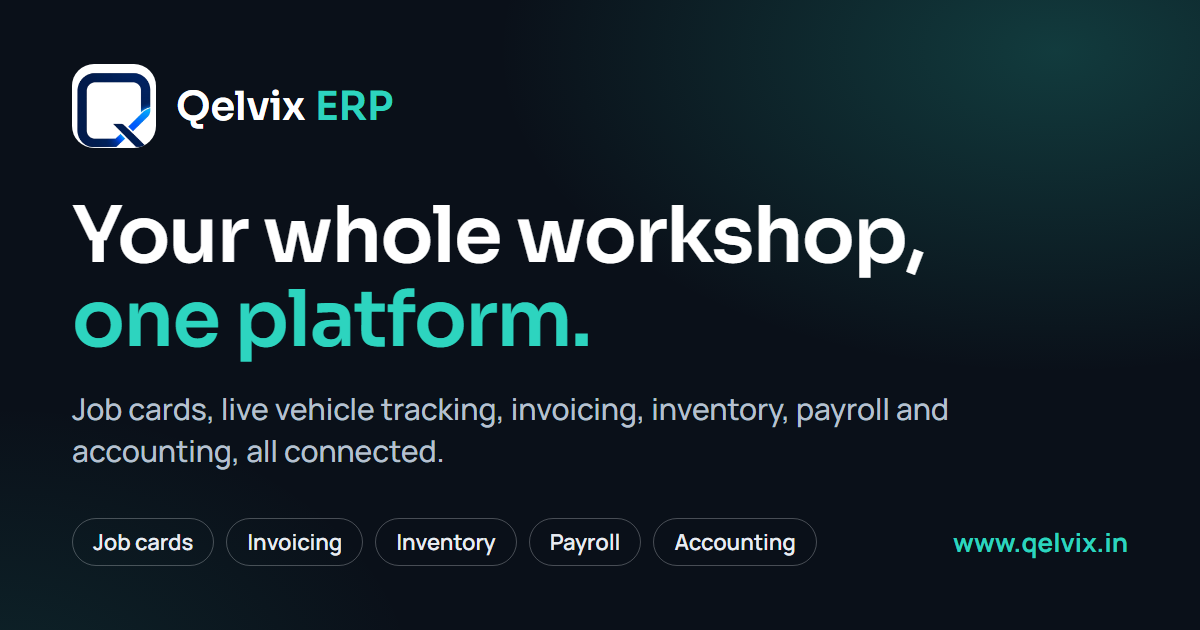
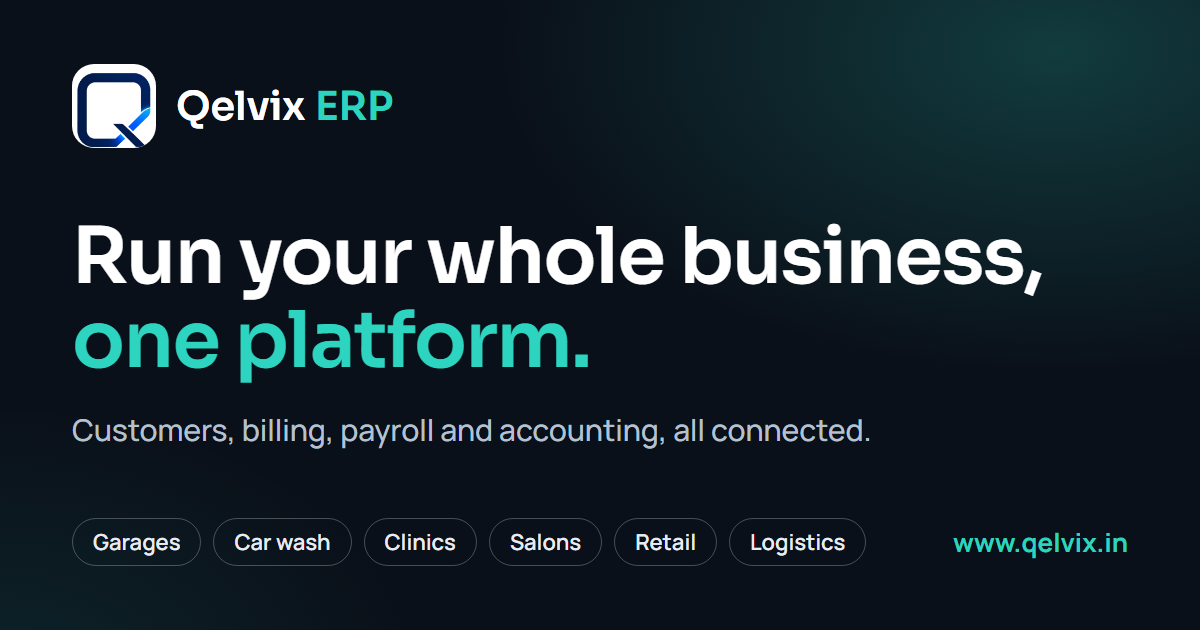
Share image: say "Run your whole business" instead of "Your whole workshop"
The link-preview picture (og-image.png, used by WhatsApp, LinkedIn, X, Slack and Google Discover) still said "Your whole
workshop, one platform" with job-card chips, which no longer matches the site. It now says "Run your whole business, one
platform." with chips for Garages, Car wash, Clinics, Salons, Retail and Logistics. Source: scripts/seo/og-image.html,
rendered with headless Edge as described in its header (1200x630).

- The og:image / twitter:image URLs get ?v=2 so link-preview caches fetch the new picture instead of keeping the old one
  for the same address (index.html, the industry pages and the module pages).
- The alt text is updated on the home page and added to the industry pages.

Changed region(s): [[0.0617, 0.3317, 0.8633, 0.6032], [0.0617, 0.6333, 0.8017, 0.754], [0.0617, 0.8444, 0.7092, 0.9048]]

diff --git a/industries/salon-beauty-parlour.html b/industries/salon-beauty-parlour.html
@@ -15,13 +15,15 @@
 <meta property="og:url" content="https://www.qelvix.in/industries/salon-beauty-parlour">
 <meta property="og:title" content="Salon &amp; Beauty Parlour Management Software — Qelvix ERP">
 <meta property="og:description" content="Qelvix ERP for salons and beauty parlours: appointments, service menu and packages, stylist commission, loyalty and memberships, billing, stock and payroll.">
-<meta property="og:image" content="https://www.qelvix.in/branding/og-image.png">
+<meta property="og:image" content="https://www.qelvix.in/branding/og-image.png?v=2">
 <meta property="og:image:width" content="1200">
 <meta property="og:image:height" content="630">
+<meta property="og:image:alt" content="Qelvix ERP: run your whole business on one platform. Garages, car wash, clinics, salons, retail and logistics.">
 <meta name="twitter:card" content="summary_large_image">
 <meta name="twitter:title" content="Salon &amp; Beauty Parlour Management Software — Qelvix ERP">
 <meta name="twitter:description" content="Qelvix ERP for salons and beauty parlours: appointments, service menu and packages, stylist commission, loyalty and memberships, billing, stock and payroll.">
-<meta name="twitter:image" content="https://www.qelvix.in/branding/og-image.png">
+<meta name="twitter:image" content="https://www.qelvix.in/branding/og-image.png?v=2">
+<meta name="twitter:image:alt" content="Qelvix ERP: run your whole business on one platform. Garages, car wash, clinics, salons, retail and logistics.">
 <script type="application/ld+json">{"@context":"https://schema.org","@graph":[{"@type":"WebPage","@id":"https://www.qelvix.in/industries/salon-beauty-parlour#webpage","url":"https://www.qelvix.in/industries/salon-beauty-parlour","name":"Salon & Beauty Parlour Management Software — Qelvix ERP","description":"Qelvix ERP for salons and beauty parlours: appointments, service menu and packages, stylist commission, loyalty and memberships, billing, stock and payroll.","inLanguage":"en-IN","isPartOf":{"@id":"https://www.qelvix.in/#website"}},{"@type":"BreadcrumbList","itemListElement":[{"@type":"ListItem","position":1,"name":"Qelvix ERP","item":"https://www.qelvix.in/"},{"@type":"ListItem","position":2,"name":"Salons & beauty parlours","item":"https://www.qelvix.in/industries/salon-beauty-parlour"}]}]}</script>
 <script>
   (function () {

diff --git a/industries/retail-showroom.html b/industries/retail-showroom.html
@@ -15,13 +15,15 @@
 <meta property="og:url" content="https://www.qelvix.in/industries/retail-showroom">
 <meta property="og:title" content="Retail &amp; Showroom Management Software — Qelvix ERP">
 <meta property="og:description" content="Qelvix ERP for retail shops and showrooms: stock, purchasing and vendors, invoicing, customers, offers, reports, accounting, staff attendance and payroll.">
-<meta property="og:image" content="https://www.qelvix.in/branding/og-image.png">
+<meta property="og:image" content="https://www.qelvix.in/branding/og-image.png?v=2">
 <meta property="og:image:width" content="1200">
 <meta property="og:image:height" content="630">
+<meta property="og:image:alt" content="Qelvix ERP: run your whole business on one platform. Garages, car wash, clinics, salons, retail and logistics.">
 <meta name="twitter:card" content="summary_large_image">
 <meta name="twitter:title" content="Retail &amp; Showroom Management Software — Qelvix ERP">
 <meta name="twitter:description" content="Qelvix ERP for retail shops and showrooms: stock, purchasing and vendors, invoicing, customers, offers, reports, accounting, staff attendance and payroll.">
-<meta name="twitter:image" content="https://www.qelvix.in/branding/og-image.png">
+<meta name="twitter:image" content="https://www.qelvix.in/branding/og-image.png?v=2">
+<meta name="twitter:image:alt" content="Qelvix ERP: run your whole business on one platform. Garages, car wash, clinics, salons, retail and logistics.">
 <script type="application/ld+json">{"@context":"https://schema.org","@graph":[{"@type":"WebPage","@id":"https://www.qelvix.in/industries/retail-showroom#webpage","url":"https://www.qelvix.in/industries/retail-showroom","name":"Retail & Showroom Management Software — Qelvix ERP","description":"Qelvix ERP for retail shops and showrooms: stock, purchasing and vendors, invoicing, customers, offers, reports, accounting, staff attendance and payroll.","inLanguage":"en-IN","isPartOf":{"@id":"https://www.qelvix.in/#website"}},{"@type":"BreadcrumbList","itemListElement":[{"@type":"ListItem","position":1,"name":"Qelvix ERP","item":"https://www.qelvix.in/"},{"@type":"ListItem","position":2,"name":"Retail & showrooms","item":"https://www.qelvix.in/industries/retail-showroom"}]}]}</script>
 <script>
   (function () {

diff --git a/industries/automotive.html b/industries/automotive.html
@@ -15,13 +15,15 @@
 <meta property="og:url" content="https://www.qelvix.in/industries/automotive">
 <meta property="og:title" content="Automotive Business Management Software — Qelvix ERP">
 <meta property="og:description" content="Qelvix ERP for automotive businesses: a ready service catalogue for accessories, detailing and customisation, job cards, vehicle history, parts, billing.">
-<meta property="og:image" content="https://www.qelvix.in/branding/og-image.png">
+<meta property="og:image" content="https://www.qelvix.in/branding/og-image.png?v=2">
 <meta property="og:image:width" content="1200">
 <meta property="og:image:height" content="630">
+<meta property="og:image:alt" content="Qelvix ERP: run your whole business on one platform. Garages, car wash, clinics, salons, retail and logistics.">
 <meta name="twitter:card" content="summary_large_image">
 <meta name="twitter:title" content="Automotive Business Management Software — Qelvix ERP">
 <meta name="twitter:description" content="Qelvix ERP for automotive businesses: a ready service catalogue for accessories, detailing and customisation, job cards, vehicle history, parts, billing.">
-<meta name="twitter:image" content="https://www.qelvix.in/branding/og-image.png">
+<meta name="twitter:image" content="https://www.qelvix.in/branding/og-image.png?v=2">
+<meta name="twitter:image:alt" content="Qelvix ERP: run your whole business on one platform. Garages, car wash, clinics, salons, retail and logistics.">
 <script type="application/ld+json">{"@context":"https://schema.org","@graph":[{"@type":"WebPage","@id":"https://www.qelvix.in/industries/automotive#webpage","url":"https://www.qelvix.in/industries/automotive","name":"Automotive Business Management Software — Qelvix ERP","description":"Qelvix ERP for automotive businesses: a ready service catalogue for accessories, detailing and customisation, job cards, vehicle history, parts, billing.","inLanguage":"en-IN","isPartOf":{"@id":"https://www.qelvix.in/#website"}},{"@type":"BreadcrumbList","itemListElement":[{"@type":"ListItem","position":1,"name":"Qelvix ERP","item":"https://www.qelvix.in/"},{"@type":"ListItem","position":2,"name":"Automotive businesses","item":"https://www.qelvix.in/industries/automotive"}]}]}</script>
 <script>
   (function () {

diff --git a/industries/car-wash.html b/industries/car-wash.html
@@ -15,13 +15,15 @@
 <meta property="og:url" content="https://www.qelvix.in/industries/car-wash">
 <meta property="og:title" content="Car Wash &amp; Detailing Business Software — Qelvix ERP">
 <meta property="og:description" content="Qelvix ERP for car wash and detailing businesses: wash bays, job cards, live status for customers, bookings, estimates, invoicing, reminders, payroll.">
-<meta property="og:image" content="https://www.qelvix.in/branding/og-image.png">
+<meta property="og:image" content="https://www.qelvix.in/branding/og-image.png?v=2">
 <meta property="og:image:width" content="1200">
 <meta property="og:image:height" content="630">
+<meta property="og:image:alt" content="Qelvix ERP: run your whole business on one platform. Garages, car wash, clinics, salons, retail and logistics.">
 <meta name="twitter:card" content="summary_large_image">
 <meta name="twitter:title" content="Car Wash &amp; Detailing Business Software — Qelvix ERP">
 <meta name="twitter:description" content="Qelvix ERP for car wash and detailing businesses: wash bays, job cards, live status for customers, bookings, estimates, invoicing, reminders, payroll.">
-<meta name="twitter:image" content="https://www.qelvix.in/branding/og-image.png">
+<meta name="twitter:image" content="https://www.qelvix.in/branding/og-image.png?v=2">
+<meta name="twitter:image:alt" content="Qelvix ERP: run your whole business on one platform. Garages, car wash, clinics, salons, retail and logistics.">
 <script type="application/ld+json">{"@context":"https://schema.org","@graph":[{"@type":"WebPage","@id":"https://www.qelvix.in/industries/car-wash#webpage","url":"https://www.qelvix.in/industries/car-wash","name":"Car Wash & Detailing Business Software — Qelvix ERP","description":"Qelvix ERP for car wash and detailing businesses: wash bays, job cards, live status for customers, bookings, estimates, invoicing, reminders, payroll.","inLanguage":"en-IN","isPartOf":{"@id":"https://www.qelvix.in/#website"}},{"@type":"BreadcrumbList","itemListElement":[{"@type":"ListItem","position":1,"name":"Qelvix ERP","item":"https://www.qelvix.in/"},{"@type":"ListItem","position":2,"name":"Car wash & detailing","item":"https://www.qelvix.in/industries/car-wash"}]}]}</script>
 <script>
   (function () {

diff --git a/industries/doctor-clinic.html b/industries/doctor-clinic.html
@@ -15,13 +15,15 @@
 <meta property="og:url" content="https://www.qelvix.in/industries/doctor-clinic">
 <meta property="og:title" content="Doctor Clinic Management Software — Qelvix ERP">
 <meta property="og:description" content="Qelvix ERP for doctor clinics: patient records, doctor calendar and appointments, visit records, consultation and procedure billing, staff and payroll.">
-<meta property="og:image" content="https://www.qelvix.in/branding/og-image.png">
+<meta property="og:image" content="https://www.qelvix.in/branding/og-image.png?v=2">
 <meta property="og:image:width" content="1200">
 <meta property="og:image:height" content="630">
+<meta property="og:image:alt" content="Qelvix ERP: run your whole business on one platform. Garages, car wash, clinics, salons, retail and logistics.">
 <meta name="twitter:card" content="summary_large_image">
 <meta name="twitter:title" content="Doctor Clinic Management Software — Qelvix ERP">
 <meta name="twitter:description" content="Qelvix ERP for doctor clinics: patient records, doctor calendar and appointments, visit records, consultation and procedure billing, staff and payroll.">
-<meta name="twitter:image" content="https://www.qelvix.in/branding/og-image.png">
+<meta name="twitter:image" content="https://www.qelvix.in/branding/og-image.png?v=2">
+<meta name="twitter:image:alt" content="Qelvix ERP: run your whole business on one platform. Garages, car wash, clinics, salons, retail and logistics.">
 <script type="application/ld+json">{"@context":"https://schema.org","@graph":[{"@type":"WebPage","@id":"https://www.qelvix.in/industries/doctor-clinic#webpage","url":"https://www.qelvix.in/industries/doctor-clinic","name":"Doctor Clinic Management Software — Qelvix ERP","description":"Qelvix ERP for doctor clinics: patient records, doctor calendar and appointments, visit records, consultation and procedure billing, staff and payroll.","inLanguage":"en-IN","isPartOf":{"@id":"https://www.qelvix.in/#website"}},{"@type":"BreadcrumbList","itemListElement":[{"@type":"ListItem","position":1,"name":"Qelvix ERP","item":"https://www.qelvix.in/"},{"@type":"ListItem","position":2,"name":"Doctor clinics","item":"https://www.qelvix.in/industries/doctor-clinic"}]}]}</script>
 <script>
   (function () {

diff --git a/industries/logistics.html b/industries/logistics.html
@@ -15,13 +15,15 @@
 <meta property="og:url" content="https://www.qelvix.in/industries/logistics">
 <meta property="og:title" content="ERP for Logistics Companies — Qelvix ERP">
 <meta property="og:description" content="Qelvix ERP runs the office side of a logistics company: staff attendance and payroll, invoicing, purchasing, accounting, assets and reports in one platform.">
-<meta property="og:image" content="https://www.qelvix.in/branding/og-image.png">
+<meta property="og:image" content="https://www.qelvix.in/branding/og-image.png?v=2">
 <meta property="og:image:width" content="1200">
 <meta property="og:image:height" content="630">
+<meta property="og:image:alt" content="Qelvix ERP: run your whole business on one platform. Garages, car wash, clinics, salons, retail and logistics.">
 <meta name="twitter:card" content="summary_large_image">
 <meta name="twitter:title" content="ERP for Logistics Companies — Qelvix ERP">
 <meta name="twitter:description" content="Qelvix ERP runs the office side of a logistics company: staff attendance and payroll, invoicing, purchasing, accounting, assets and reports in one platform.">
-<meta name="twitter:image" content="https://www.qelvix.in/branding/og-image.png">
+<meta name="twitter:image" content="https://www.qelvix.in/branding/og-image.png?v=2">
+<meta name="twitter:image:alt" content="Qelvix ERP: run your whole business on one platform. Garages, car wash, clinics, salons, retail and logistics.">
 <script type="application/ld+json">{"@context":"https://schema.org","@graph":[{"@type":"WebPage","@id":"https://www.qelvix.in/industries/logistics#webpage","url":"https://www.qelvix.in/industries/logistics","name":"ERP for Logistics Companies — Qelvix ERP","description":"Qelvix ERP runs the office side of a logistics company: staff attendance and payroll, invoicing, purchasing, accounting, assets and reports in one platform.","inLanguage":"en-IN","isPartOf":{"@id":"https://www.qelvix.in/#website"}},{"@type":"BreadcrumbList","itemListElement":[{"@type":"ListItem","position":1,"name":"Qelvix ERP","item":"https://www.qelvix.in/"},{"@type":"ListItem","position":2,"name":"Logistics companies","item":"https://www.qelvix.in/industries/logistics"}]}]}</script>
 <script>
   (function () {

diff --git a/industries/garage.html b/industries/garage.html
@@ -15,13 +15,15 @@
 <meta property="og:url" content="https://www.qelvix.in/industries/garage">
 <meta property="og:title" content="Garage &amp; Workshop Management Software — Qelvix ERP">
 <meta property="og:description" content="Qelvix ERP for garages and workshops: job cards, live vehicle tracking, bookings and estimates, invoicing, parts inventory and warranties, payroll.">
-<meta property="og:image" content="https://www.qelvix.in/branding/og-image.png">
+<meta property="og:image" content="https://www.qelvix.in/branding/og-image.png?v=2">
 <meta property="og:image:width" content="1200">
 <meta property="og:image:height" content="630">
+<meta property="og:image:alt" content="Qelvix ERP: run your whole business on one platform. Garages, car wash, clinics, salons, retail and logistics.">
 <meta name="twitter:card" content="summary_large_image">
 <meta name="twitter:title" content="Garage &amp; Workshop Management Software — Qelvix ERP">
 <meta name="twitter:description" content="Qelvix ERP for garages and workshops: job cards, live vehicle tracking, bookings and estimates, invoicing, parts inventory and warranties, payroll.">
-<meta name="twitter:image" content="https://www.qelvix.in/branding/og-image.png">
+<meta name="twitter:image" content="https://www.qelvix.in/branding/og-image.png?v=2">
+<meta name="twitter:image:alt" content="Qelvix ERP: run your whole business on one platform. Garages, car wash, clinics, salons, retail and logistics.">
 <script type="application/ld+json">{"@context":"https://schema.org","@graph":[{"@type":"WebPage","@id":"https://www.qelvix.in/industries/garage#webpage","url":"https://www.qelvix.in/industries/garage","name":"Garage & Workshop Management Software — Qelvix ERP","description":"Qelvix ERP for garages and workshops: job cards, live vehicle tracking, bookings and estimates, invoicing, parts inventory and warranties, payroll.","inLanguage":"en-IN","isPartOf":{"@id":"https://www.qelvix.in/#website"}},{"@type":"BreadcrumbList","itemListElement":[{"@type":"ListItem","position":1,"name":"Qelvix ERP","item":"https://www.qelvix.in/"},{"@type":"ListItem","position":2,"name":"Garages & workshops","item":"https://www.qelvix.in/industries/garage"}]}]}</script>
 <script>
   (function () {

diff --git a/modules/purchasing.html b/modules/purchasing.html
@@ -13,13 +13,13 @@
 <meta property="og:url" content="https://www.qelvix.in/modules/purchasing">
 <meta property="og:title" content="Purchasing &amp; Vendors — Qelvix ERP">
 <meta property="og:description" content="The other half of inventory — order it, receive it, post it to your books. Part of Qelvix ERP, the connected platform for garages, clinics, salons and retail.">
-<meta property="og:image" content="https://www.qelvix.in/branding/og-image.png">
+<meta property="og:image" content="https://www.qelvix.in/branding/og-image.png?v=2">
 <meta property="og:image:width" content="1200">
 <meta property="og:image:height" content="630">
 <meta name="twitter:card" content="summary_large_image">
 <meta name="twitter:title" content="Purchasing &amp; Vendors — Qelvix ERP">
 <meta name="twitter:description" content="The other half of inventory — order it, receive it, post it to your books. Part of Qelvix ERP, the connected platform for garages, clinics, salons and retail.">
-<meta name="twitter:image" content="https://www.qelvix.in/branding/og-image.png">
+<meta name="twitter:image" content="https://www.qelvix.in/branding/og-image.png?v=2">
 <script type="application/ld+json">{"@context":"https://schema.org","@graph":[{"@type":"WebPage","@id":"https://www.qelvix.in/modules/purchasing#webpage","url":"https://www.qelvix.in/modules/purchasing","name":"Purchasing & Vendors — Qelvix ERP","description":"The other half of inventory — order it, receive it, post it to your books. Part of Qelvix ERP, the connected platform for garages, clinics, salons and retail.","inLanguage":"en-IN","isPartOf":{"@id":"https://www.qelvix.in/#website"}},{"@type":"BreadcrumbList","itemListElement":[{"@type":"ListItem","position":1,"name":"Qelvix ERP","item":"https://www.qelvix.in/"},{"@type":"ListItem","position":2,"name":"Purchasing & Vendors","item":"https://www.qelvix.in/modules/purchasing"}]}]}</script>
 <link rel="preconnect" href="https://fonts.googleapis.com">
 <link href="https://fonts.googleapis.com/css2?family=Material+Symbols+Outlined:opsz,wght,FILL,GRAD@20,400,0,0" rel="stylesheet">

diff --git a/modules/marketing.html b/modules/marketing.html
@@ -13,13 +13,13 @@
 <meta property="og:url" content="https://www.qelvix.in/modules/marketing">
 <meta property="og:title" content="Marketing &amp; Customer Engagement — Qelvix ERP">
 <meta property="og:description" content="Bring customers back without a spreadsheet of phone numbers. Part of Qelvix ERP, the connected platform for garages, clinics, salons and retail.">
-<meta property="og:image" content="https://www.qelvix.in/branding/og-image.png">
+<meta property="og:image" content="https://www.qelvix.in/branding/og-image.png?v=2">
 <meta property="og:image:width" content="1200">
 <meta property="og:image:height" content="630">
 <meta name="twitter:card" content="summary_large_image">
 <meta name="twitter:title" content="Marketing &amp; Customer Engagement — Qelvix ERP">
 <meta name="twitter:description" content="Bring customers back without a spreadsheet of phone numbers. Part of Qelvix ERP, the connected platform for garages, clinics, salons and retail.">
-<meta name="twitter:image" content="https://www.qelvix.in/branding/og-image.png">
+<meta name="twitter:image" content="https://www.qelvix.in/branding/og-image.png?v=2">
 <script type="application/ld+json">{"@context":"https://schema.org","@graph":[{"@type":"WebPage","@id":"https://www.qelvix.in/modules/marketing#webpage","url":"https://www.qelvix.in/modules/marketing","name":"Marketing & Customer Engagement — Qelvix ERP","description":"Bring customers back without a spreadsheet of phone numbers. Part of Qelvix ERP, the connected platform for garages, clinics, salons and retail.","inLanguage":"en-IN","isPartOf":{"@id":"https://www.qelvix.in/#website"}},{"@type":"BreadcrumbList","itemListElement":[{"@type":"ListItem","position":1,"name":"Qelvix ERP","item":"https://www.qelvix.in/"},{"@type":"ListItem","position":2,"name":"Marketing & Customer Engagement","item":"https://www.qelvix.in/modules/marketing"}]}]}</script>
 <link rel="preconnect" href="https://fonts.googleapis.com">
 <link href="https://fonts.googleapis.com/css2?family=Material+Symbols+Outlined:opsz,wght,FILL,GRAD@20,400,0,0" rel="stylesheet">

diff --git a/modules/tracking.html b/modules/tracking.html
@@ -13,13 +13,13 @@
 <meta property="og:url" content="https://www.qelvix.in/modules/tracking">
 <meta property="og:title" content="Live Vehicle Tracking — Qelvix ERP">
 <meta property="og:description" content="Customers check real-time status without a login, a call, or an account. Part of Qelvix ERP, the connected platform for garages, clinics, salons and retail.">
-<meta property="og:image" content="https://www.qelvix.in/branding/og-image.png">
+<meta property="og:image" content="https://www.qelvix.in/branding/og-image.png?v=2">
 <meta property="og:image:width" content="1200">
 <meta property="og:image:height" content="630">
 <meta name="twitter:card" content="summary_large_image">
 <meta name="twitter:title" content="Live Vehicle Tracking — Qelvix ERP">
 <meta name="twitter:description" content="Customers check real-time status without a login, a call, or an account. Part of Qelvix ERP, the connected platform for garages, clinics, salons and retail.">
-<meta name="twitter:image" content="https://www.qelvix.in/branding/og-image.png">
+<meta name="twitter:image" content="https://www.qelvix.in/branding/og-image.png?v=2">
 <script type="application/ld+json">{"@context":"https://schema.org","@graph":[{"@type":"WebPage","@id":"https://www.qelvix.in/modules/tracking#webpage","url":"https://www.qelvix.in/modules/tracking","name":"Live Vehicle Tracking — Qelvix ERP","description":"Customers check real-time status without a login, a call, or an account. Part of Qelvix ERP, the connected platform for garages, clinics, salons and retail.","inLanguage":"en-IN","isPartOf":{"@id":"https://www.qelvix.in/#website"}},{"@type":"BreadcrumbList","itemListElement":[{"@type":"ListItem","position":1,"name":"Qelvix ERP","item":"https://www.qelvix.in/"},{"@type":"ListItem","position":2,"name":"Live Vehicle Tracking","item":"https://www.qelvix.in/modules/tracking"}]}]}</script>
 <link rel="preconnect" href="https://fonts.googleapis.com">
 <link href="https://fonts.googleapis.com/css2?family=Material+Symbols+Outlined:opsz,wght,FILL,GRAD@20,400,0,0" rel="stylesheet">

diff --git a/modules/employeeportal.html b/modules/employeeportal.html
@@ -13,13 +13,13 @@
 <meta property="og:url" content="https://www.qelvix.in/modules/employeeportal">
 <meta property="og:title" content="Employee Self-Service Portal — Qelvix ERP">
 <meta property="og:description" content="A mobile-friendly portal where employees clock in, view payslips, request leave, and track their own reviews — without going through HR.">
-<meta property="og:image" content="https://www.qelvix.in/branding/og-image.png">
+<meta property="og:image" content="https://www.qelvix.in/branding/og-image.png?v=2">
 <meta property="og:image:width" content="1200">
 <meta property="og:image:height" content="630">
 <meta name="twitter:card" content="summary_large_image">
 <meta name="twitter:title" content="Employee Self-Service Portal — Qelvix ERP">
 <meta name="twitter:description" content="A mobile-friendly portal where employees clock in, view payslips, request leave, and track their own reviews — without going through HR.">
-<meta name="twitter:image" content="https://www.qelvix.in/branding/og-image.png">
+<meta name="twitter:image" content="https://www.qelvix.in/branding/og-image.png?v=2">
 <script type="application/ld+json">{"@context":"https://schema.org","@graph":[{"@type":"WebPage","@id":"https://www.qelvix.in/modules/employeeportal#webpage","url":"https://www.qelvix.in/modules/employeeportal","name":"Employee Self-Service Portal — Qelvix ERP","description":"A mobile-friendly portal where employees clock in, view payslips, request leave, and track their own reviews — without going through HR.","inLanguage":"en-IN","isPartOf":{"@id":"https://www.qelvix.in/#website"}},{"@type":"BreadcrumbList","itemListElement":[{"@type":"ListItem","position":1,"name":"Qelvix ERP","item":"https://www.qelvix.in/"},{"@type":"ListItem","position":2,"name":"Employee Self-Service Portal","item":"https://www.qelvix.in/modules/employeeportal"}]}]}</script>
 <link rel="preconnect" href="https://fonts.googleapis.com">
 <link href="https://fonts.googleapis.com/css2?family=Material+Symbols+Outlined:opsz,wght,FILL,GRAD@20,400,0,0" rel="stylesheet">

diff --git a/modules/invoices.html b/modules/invoices.html
@@ -13,13 +13,13 @@
 <meta property="og:url" content="https://www.qelvix.in/modules/invoices">
 <meta property="og:title" content="Invoicing &amp; Billing — Qelvix ERP">
 <meta property="og:description" content="Turn closed jobs into invoices without re-entering a single line item. Part of Qelvix ERP, the connected platform for garages, clinics, salons and retail.">
-<meta property="og:image" content="https://www.qelvix.in/branding/og-image.png">
+<meta property="og:image" content="https://www.qelvix.in/branding/og-image.png?v=2">
 <meta property="og:image:width" content="1200">
 <meta property="og:image:height" content="630">
 <meta name="twitter:card" content="summary_large_image">
 <meta name="twitter:title" content="Invoicing &amp; Billing — Qelvix ERP">
 <meta name="twitter:description" content="Turn closed jobs into invoices without re-entering a single line item. Part of Qelvix ERP, the connected platform for garages, clinics, salons and retail.">
-<meta name="twitter:image" content="https://www.qelvix.in/branding/og-image.png">
+<meta name="twitter:image" content="https://www.qelvix.in/branding/og-image.png?v=2">
 <script type="application/ld+json">{"@context":"https://schema.org","@graph":[{"@type":"WebPage","@id":"https://www.qelvix.in/modules/invoices#webpage","url":"https://www.qelvix.in/modules/invoices","name":"Invoicing & Billing — Qelvix ERP","description":"Turn closed jobs into invoices without re-entering a single line item. Part of Qelvix ERP, the connected platform for garages, clinics, salons and retail.","inLanguage":"en-IN","isPartOf":{"@id":"https://www.qelvix.in/#website"}},{"@type":"BreadcrumbList","itemListElement":[{"@type":"ListItem","position":1,"name":"Qelvix ERP","item":"https://www.qelvix.in/"},{"@type":"ListItem","position":2,"name":"Invoicing & Billing","item":"https://www.qelvix.in/modules/invoices"}]}]}</script>
 <link rel="preconnect" href="https://fonts.googleapis.com">
 <link href="https://fonts.googleapis.com/css2?family=Material+Symbols+Outlined:opsz,wght,FILL,GRAD@20,400,0,0" rel="stylesheet">
